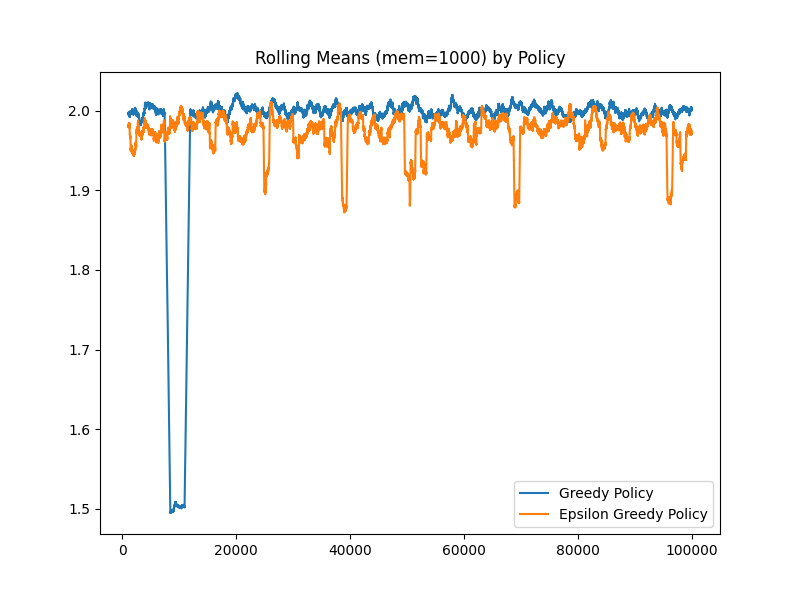
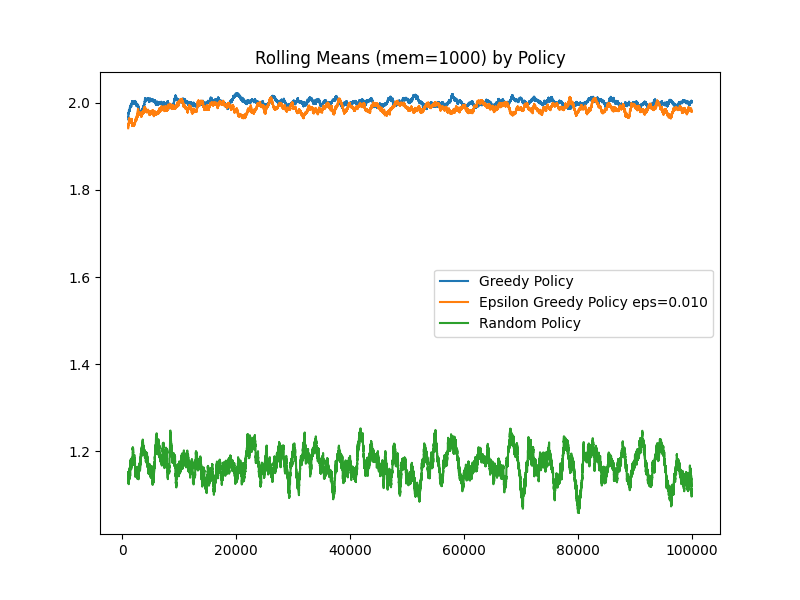
3 policy reports

diff --git a/stationary_problem/simulate.py b/stationary_problem/simulate.py
@@ -16,6 +16,21 @@ def simulate_policy(env, policy, n):
         Q.append(q)
     return np.array(actions), np.array(rewards), np.asarray(Q)
 
+def summary_report(actions, rewards, Q):
+    print('- Average Reward: {:.3f}'.format(rewards.mean()))
+    print(
+        '- Final Q-values: [', 
+        " ".join("{:.3f}".format(q) for q in Q[-1]),
+        ']'
+    )
+    df = pd.DataFrame({'Action':actions, 'Reward':rewards})
+    print('- Action Frequency: ',end='')
+    for t in df['Action'].value_counts(ascending=True).items():
+        print(t, end=' ')
+    print()
+    return df
+
+
 def main():
     path = 'stationary_problem'
     file = 'bandits.csv'
@@ -34,11 +49,10 @@ def main():
     n_warmup = 1000
     ewmalpha = 0.001
 
-    actions, rewards, Q = simulate_policy(rlenv, greedy, n_periods)
-    print(rewards.mean())
-    print(Q[-1])
-    grd = pd.DataFrame({'Action':actions, 'Reward':rewards})
-    print(grd['Action'].value_counts())
+    grd = summary_report(
+        *simulate_policy(rlenv, greedy, n_periods)
+    )
+
     fig, ax = plt.subplots(figsize=(8, 6))
     grd['Action'][:100].plot(kind='hist', ax=ax)
     grd['Reward'][:100].plot(secondary_y=True,ax=ax)
@@ -47,18 +61,14 @@ def main():
     fig.savefig(os.path.join(path, 'Figure_3.png'))
     plt.close()
 
-    actions, rewards, Q = simulate_policy(rlenv, eps_greedy, n_periods)
-    print(rewards.mean())
-    print(Q[-1])
-    egrd = pd.DataFrame({'Action':actions, 'Reward':rewards})
-    print(egrd['Action'].value_counts())
+ 
+    egrd = summary_report(
+        *simulate_policy(rlenv, eps_greedy, n_periods)
+    )
 
-    actions, rewards, Q = simulate_policy(rlenv, rnd_policy, n_periods)
-    print(rewards.mean())
-    print(Q[-1])
-    rpol = pd.DataFrame({'Action':actions, 'Reward':rewards})
-    print(rpol['Action'].value_counts())
-
+    rpol = summary_report(
+        *simulate_policy(rlenv, rnd_policy, n_periods)
+    )
 
     fig, ax = plt.subplots(figsize=(8, 6))
 

diff --git a/stationary_problem/environ.py b/stationary_problem/environ.py
@@ -76,6 +76,9 @@ class Policy:
         n = 1.0 if self.step_size == 0.0 else 1.0 / self.step_size
         self.step_size = 1.0 / (n + 1.0)
 
+    def __repr__(self):
+        return "Random Action Policy"
+
 class EpsilonGreedy(Policy):
 
     def __init__(
